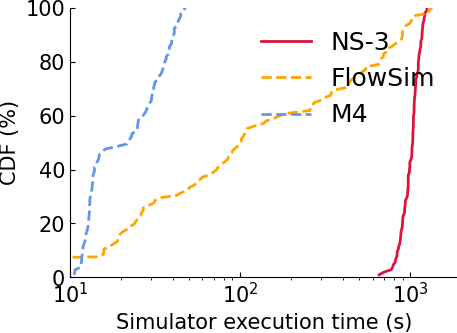
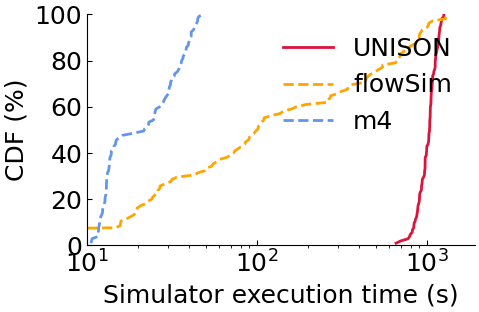
upd

diff --git a/gray_failure_plot_results.py b/gray_failure_plot_results.py
@@ -2,9 +2,9 @@
 """
 Plot gray failure sweep results: 3 CDF plots.
 
-1. CDF of relative error magnitudes (FlowSim and M4 vs NS-3 ground truth)
-2. CDF of signed relative errors (FlowSim and M4 vs NS-3 ground truth)
-3. CDF of simulator runtimes (NS-3, FlowSim, M4)
+1. CDF of relative error magnitudes (flowSim and M4 vs UNISON ground truth)
+2. CDF of signed relative errors (flowSim and M4 vs UNISON ground truth)
+3. CDF of simulator runtimes (UNISON, flowSim, M4)
 """
 
 import re
@@ -16,7 +16,9 @@ import argparse
 # Color scheme matching util/plot.py
 COLOR_LIST = ["crimson", "orange", "cornflowerblue", "blueviolet", "seagreen", "mediumpurple"]
 LINESTYLE_LIST = ["-", "--", "--", "-.", ":"]
-
+figure_size = (5, 3)
+font_size = 18
+ours = "m4"
 
 def parse_endtoend_csv(filepath):
     """Parse EndToEnd.csv to extract total completion time in microseconds."""
@@ -75,10 +77,6 @@ def collect_results(results_dir):
         r = int(match.group(2))
         simulator = match.group(3)
         
-        # fileter
-        # if n<=16:
-        #     continue
-        
         # Parse EndToEnd.csv
         csv_file = subdir / 'EndToEnd.csv'
         if csv_file.exists():
@@ -97,17 +95,17 @@ def collect_results(results_dir):
 
 
 def plot_signed_error_cdf(completion_times, output_file='gray_failure_signed_errors.png'):
-    """Plot CDF of signed relative errors (FlowSim and M4 vs NS-3)."""
-    fig = plt.figure(figsize=(5, 3.5))
+    """Plot CDF of signed relative errors (flowSim and M4 vs UNISON)."""
+    fig = plt.figure(figsize=figure_size)
     ax = fig.add_subplot(111)
     ax.spines["right"].set_visible(False)
     ax.spines["top"].set_visible(False)
     ax.tick_params(axis="y", direction="in")
     ax.tick_params(axis="x", direction="in")
     
-    # orange (FlowSim), cornflowerblue (M4)
+    # orange (flowSim), cornflowerblue (M4)
     colors = {'flowsim': COLOR_LIST[1], 'm4': COLOR_LIST[2]}
-    labels = {'flowsim': 'FlowSim', 'm4': 'M4'}
+    labels = {'flowsim': 'flowSim', 'm4': ours}
     
     ns3_configs = set(completion_times['ns3'].keys())
     
@@ -154,32 +152,32 @@ def plot_signed_error_cdf(completion_times, output_file='gray_failure_signed_err
         print(f"   MAE: {np.mean(np.abs(errors)):.2f}%")
         print(f"   Range: [{np.min(errors):+.2f}%, {np.max(errors):+.2f}%]")
     
-    plt.xlabel('Signed relative error (%)', fontsize=15)
-    plt.ylabel('CDF (%)', fontsize=15)
+    plt.xlabel('Signed relative error (%)', fontsize=font_size)
+    plt.ylabel('CDF (%)', fontsize=font_size)
     plt.ylim((0, 100))
-    plt.yticks(fontsize=15)
-    plt.xticks(fontsize=15)
+    plt.yticks(fontsize=font_size)
+    plt.xticks(fontsize=font_size)
     
-    legend_properties = {"size": 18}
+    legend_properties = {"size": font_size}
     plt.legend(prop=legend_properties, frameon=False, loc=4)
     
-    plt.savefig(output_file, bbox_inches='tight', pad_inches=0)
+    plt.savefig(output_file, bbox_inches='tight', pad_inches=0.05)
     print(f"✅ Saved: {output_file}")
     plt.close()
 
 
 def plot_error_cdf(completion_times, output_file='gray_failure_errors.png'):
-    """Plot 2: CDF of relative errors (FlowSim and M4 vs NS-3)."""
-    fig = plt.figure(figsize=(5, 3.5))
+    """Plot 2: CDF of relative errors (flowSim and m4 vs UNISON)."""
+    fig = plt.figure(figsize=figure_size)
     ax = fig.add_subplot(111)
     ax.spines["right"].set_visible(False)
     ax.spines["top"].set_visible(False)
     ax.tick_params(axis="y", direction="in")
     ax.tick_params(axis="x", direction="in")
     
-    # orange (FlowSim), cornflowerblue (M4)
+    # orange (flowSim), cornflowerblue (M4)
     colors = {'flowsim': COLOR_LIST[1], 'm4': COLOR_LIST[2]}
-    labels = {'flowsim': 'FlowSim', 'm4': 'M4'}
+    labels = {'flowsim': 'flowSim', 'm4': ours}
     
     ns3_configs = set(completion_times['ns3'].keys())
     
@@ -226,24 +224,24 @@ def plot_error_cdf(completion_times, output_file='gray_failure_errors.png'):
         print(f"   MAE: {np.mean(np.abs(errors)):.2f}%")
         print(f"   Range: [{np.min(errors):+.2f}%, {np.max(errors):+.2f}%]")
     
-    plt.xlabel('Magnitude of relative error (%)', fontsize=15)
-    plt.ylabel('CDF (%)', fontsize=15)
+    plt.xlabel('Magnitude of relative error (%)', fontsize=font_size)
+    plt.ylabel('CDF (%)', fontsize=font_size)
     plt.ylim((0, 100))
     plt.xlim(left=0.01)
-    plt.yticks(fontsize=15)
-    plt.xticks(fontsize=15)
+    plt.yticks(fontsize=font_size)
+    plt.xticks(fontsize=font_size)
     
-    legend_properties = {"size": 18}
+    legend_properties = {"size": font_size}
     plt.legend(prop=legend_properties, frameon=False, loc=4)
     
-    plt.savefig(output_file, bbox_inches='tight', pad_inches=0)
+    plt.savefig(output_file, bbox_inches='tight', pad_inches=0.05)
     print(f"✅ Saved: {output_file}")
     plt.close()
 
 
 def plot_runtime_cdf(runtimes, output_file='gray_failure_runtimes.png'):
     """Plot 3: CDF of simulator execution runtimes."""
-    fig = plt.figure(figsize=(5, 3.5))
+    fig = plt.figure(figsize=figure_size)
     ax = fig.add_subplot(111)
     ax.spines["right"].set_visible(False)
     ax.spines["top"].set_visible(False)
@@ -251,9 +249,9 @@ def plot_runtime_cdf(runtimes, output_file='gray_failure_runtimes.png'):
     ax.tick_params(axis="x", direction="in")
     ax.set_xscale("log")
     
-    # crimson (NS-3), orange (FlowSim), cornflowerblue (M4)
+    # crimson (UNISON), orange (flowSim), cornflowerblue (M4)
     colors = {'ns3': COLOR_LIST[0], 'flowsim': COLOR_LIST[1], 'm4': COLOR_LIST[2]}
-    labels = {'ns3': 'NS-3', 'flowsim': 'FlowSim', 'm4': 'M4'}
+    labels = {'ns3': 'UNISON', 'flowsim': 'flowSim', 'm4': ours}
     
     for idx, simulator in enumerate(['ns3', 'flowsim', 'm4']):
         times = list(runtimes[simulator].values())
@@ -290,21 +288,125 @@ def plot_runtime_cdf(runtimes, output_file='gray_failure_runtimes.png'):
         common_configs = ns3_configs & sim_configs
         if common_configs:
             speedups = [runtimes['ns3'][c] / runtimes[simulator][c] for c in common_configs]
-            print(f"   {simulator.upper()} speedup vs NS-3: "
+            print(f"   {simulator.upper()} speedup vs UNISON: "
                   f"{np.median(speedups):.1f}x median, "
                   f"[{np.min(speedups):.1f}x, {np.max(speedups):.1f}x] range")
     
-    plt.xlabel('Simulator execution time (s)', fontsize=15)
-    plt.ylabel('CDF (%)', fontsize=15)
+    plt.xlabel('Simulator execution time (s)', fontsize=font_size)
+    plt.ylabel('CDF (%)', fontsize=font_size)
     plt.ylim((0, 100))
     plt.xlim(left=10)
-    plt.yticks(fontsize=15)
-    plt.xticks(fontsize=15)
+    plt.yticks(fontsize=font_size)
+    plt.xticks(fontsize=font_size)
     
-    legend_properties = {"size": 18}
+    legend_properties = {"size": font_size}
     plt.legend(prop=legend_properties, frameon=False, loc=1)
     
-    plt.savefig(output_file, bbox_inches='tight', pad_inches=0)
+    plt.savefig(output_file, bbox_inches='tight', pad_inches=0.05)
+    print(f"✅ Saved: {output_file}")
+    plt.close()
+
+
+def plot_mae_by_n(completion_times, output_file='gray_failure_mae_by_n.png'):
+    """Plot MAE analysis by N: magnitude of relative error vs number of degraded GPUs."""
+    # Compute MAE for each N
+    ns3_configs = set(completion_times['ns3'].keys())
+    
+    n_values = list(range(2, 17))
+    flowsim_mae_by_n = []
+    m4_mae_by_n = []
+    
+    for n in n_values:
+        fs_errors = []
+        m4_errors = []
+        for r in range(4, 11):
+            if (n, r) in completion_times['ns3']:
+                ns3_time = completion_times['ns3'][(n, r)]
+                if (n, r) in completion_times['flowsim']:
+                    fs_time = completion_times['flowsim'][(n, r)]
+                    fs_errors.append(abs((fs_time - ns3_time) / ns3_time * 100))
+                if (n, r) in completion_times['m4']:
+                    m4_time = completion_times['m4'][(n, r)]
+                    m4_errors.append(abs((m4_time - ns3_time) / ns3_time * 100))
+        
+        flowsim_mae_by_n.append(np.mean(fs_errors) if fs_errors else np.nan)
+        m4_mae_by_n.append(np.mean(m4_errors) if m4_errors else np.nan)
+    
+    # Create figure with matching scatter plot style
+    fig = plt.figure(figsize=figure_size)
+    ax = fig.add_subplot(111)
+    ax.spines["right"].set_visible(False)
+    ax.spines["top"].set_visible(False)
+    ax.tick_params(axis="y", direction="in")
+    ax.tick_params(axis="x", direction="in")
+    
+    ax.plot(n_values, flowsim_mae_by_n, '^-', color=COLOR_LIST[1], linewidth=2, 
+            markersize=10, label='flowSim', alpha=0.8, markeredgewidth=1.5)
+    ax.plot(n_values, m4_mae_by_n, 'x-', color=COLOR_LIST[2], linewidth=2, 
+            markersize=12, label=ours, alpha=0.8, markeredgewidth=2)
+    ax.set_xlabel('Number of Degraded GPUs (N)', fontsize=font_size)
+    ax.set_ylabel('Mean magnitude of\nrelative error (%)', fontsize=font_size-2)
+    ax.set_ylim([0, 35])
+    ax.margins(y=0.1)
+    ax.tick_params(axis='both', labelsize=font_size)
+    
+    legend_properties = {"size": font_size}
+    ax.legend(prop=legend_properties, frameon=False, loc='upper left')
+    
+    plt.tight_layout()
+    plt.savefig(output_file, bbox_inches='tight', pad_inches=0.05)
+    print(f"✅ Saved: {output_file}")
+    plt.close()
+
+
+def plot_mae_by_r(completion_times, output_file='gray_failure_mae_by_r.png'):
+    """Plot MAE analysis by R: magnitude of relative error vs reduction factor."""
+    # Compute MAE for each R
+    ns3_configs = set(completion_times['ns3'].keys())
+    
+    r_values = list(range(4, 11))
+    flowsim_mae_by_r = []
+    m4_mae_by_r = []
+    
+    for r in r_values:
+        fs_errors = []
+        m4_errors = []
+        for n in range(2, 17):
+            if (n, r) in completion_times['ns3']:
+                ns3_time = completion_times['ns3'][(n, r)]
+                if (n, r) in completion_times['flowsim']:
+                    fs_time = completion_times['flowsim'][(n, r)]
+                    fs_errors.append(abs((fs_time - ns3_time) / ns3_time * 100))
+                if (n, r) in completion_times['m4']:
+                    m4_time = completion_times['m4'][(n, r)]
+                    m4_errors.append(abs((m4_time - ns3_time) / ns3_time * 100))
+        
+        flowsim_mae_by_r.append(np.mean(fs_errors) if fs_errors else np.nan)
+        m4_mae_by_r.append(np.mean(m4_errors) if m4_errors else np.nan)
+    
+    # Create figure with matching scatter plot style
+    fig = plt.figure(figsize=figure_size)
+    ax = fig.add_subplot(111)
+    ax.spines["right"].set_visible(False)
+    ax.spines["top"].set_visible(False)
+    ax.tick_params(axis="y", direction="in")
+    ax.tick_params(axis="x", direction="in")
+    
+    ax.plot(r_values, flowsim_mae_by_r, '^-', color=COLOR_LIST[1], linewidth=2, 
+            markersize=10, label='flowSim', alpha=0.8, markeredgewidth=1.5)
+    ax.plot(r_values, m4_mae_by_r, 'x-', color=COLOR_LIST[2], linewidth=2, 
+            markersize=12, label=ours, alpha=0.8, markeredgewidth=2)
+    ax.set_xlabel('Reduction Factor (R)', fontsize=font_size)
+    ax.set_ylabel('Mean magnitude of\nrelative error (%)', fontsize=font_size-2)
+    ax.set_ylim([0, 35])
+    ax.margins(y=0.1)
+    ax.tick_params(axis='both', labelsize=font_size)
+    
+    legend_properties = {"size": font_size}
+    ax.legend(prop=legend_properties, frameon=False, loc='upper left')
+    
+    plt.tight_layout()
+    plt.savefig(output_file, bbox_inches='tight', pad_inches=0.05)
     print(f"✅ Saved: {output_file}")
     plt.close()
 
@@ -315,11 +417,11 @@ def plot_scatter_by_n(completion_times, output_file='gray_failure_scatter_n8.png
     
     # Match reference figure style
     colors = {'ns3': COLOR_LIST[0], 'flowsim': COLOR_LIST[1], 'm4': COLOR_LIST[2]}
-    labels = {'ns3': 'UNISON', 'flowsim': 'flowSim', 'm4': 'FLS'}
+    labels = {'ns3': 'UNISON', 'flowsim': 'flowSim', 'm4': ours}
     markers = {'ns3': 'o', 'flowsim': '^', 'm4': 'x'}
     markersizes = {'ns3': 10, 'flowsim': 10, 'm4': 12}
     
-    fig = plt.figure(figsize=(5, 3.5))
+    fig = plt.figure(figsize=figure_size)
     ax = fig.add_subplot(111)
     ax.spines["right"].set_visible(False)
     ax.spines["top"].set_visible(False)
@@ -361,12 +463,12 @@ def plot_scatter_by_n(completion_times, output_file='gray_failure_scatter_n8.png
     # Set y-axis limits with some padding to prevent cutoff
     ax.margins(y=0.1)  # Add 10% margin on y-axis
     
-    plt.xlabel('Reduction Factor (R)', fontsize=15)
-    plt.ylabel('Application Completion\nTime (ms)', fontsize=15)
-    plt.yticks(fontsize=15)
-    plt.xticks(fontsize=15)
+    plt.xlabel('Reduction Factor (R)', fontsize=font_size)
+    plt.ylabel('Application\nCompletion Time (ms)', fontsize=font_size-4)
+    plt.yticks(fontsize=font_size)
+    plt.xticks(fontsize=font_size)
     
-    legend_properties = {"size": 15}
+    legend_properties = {"size": font_size}
     plt.legend(prop=legend_properties, frameon=False, loc='upper left')
     
     plt.tight_layout()
@@ -396,6 +498,10 @@ Examples:
                         help='Output file for runtime CDF')
     parser.add_argument('--scatter-output', default='gray_failure_scatter_n8.png',
                         help='Output file for N=8 scatter plot')
+    parser.add_argument('--mae-n-output', default='gray_failure_mae_by_n.png',
+                        help='Output file for MAE by N plot')
+    parser.add_argument('--mae-r-output', default='gray_failure_mae_by_r.png',
+                        help='Output file for MAE by R plot')
     
     args = parser.parse_args()
     
@@ -426,6 +532,10 @@ Examples:
     
     print("\n📊 Generating scatter plot for N=8...")
     plot_scatter_by_n(completion_times, args.scatter_output)
+    
+    print("\n📊 Generating MAE analysis plots...")
+    plot_mae_by_n(completion_times, args.mae_n_output)
+    plot_mae_by_r(completion_times, args.mae_r_output)
     
     print("\n✅ Done!")
 
